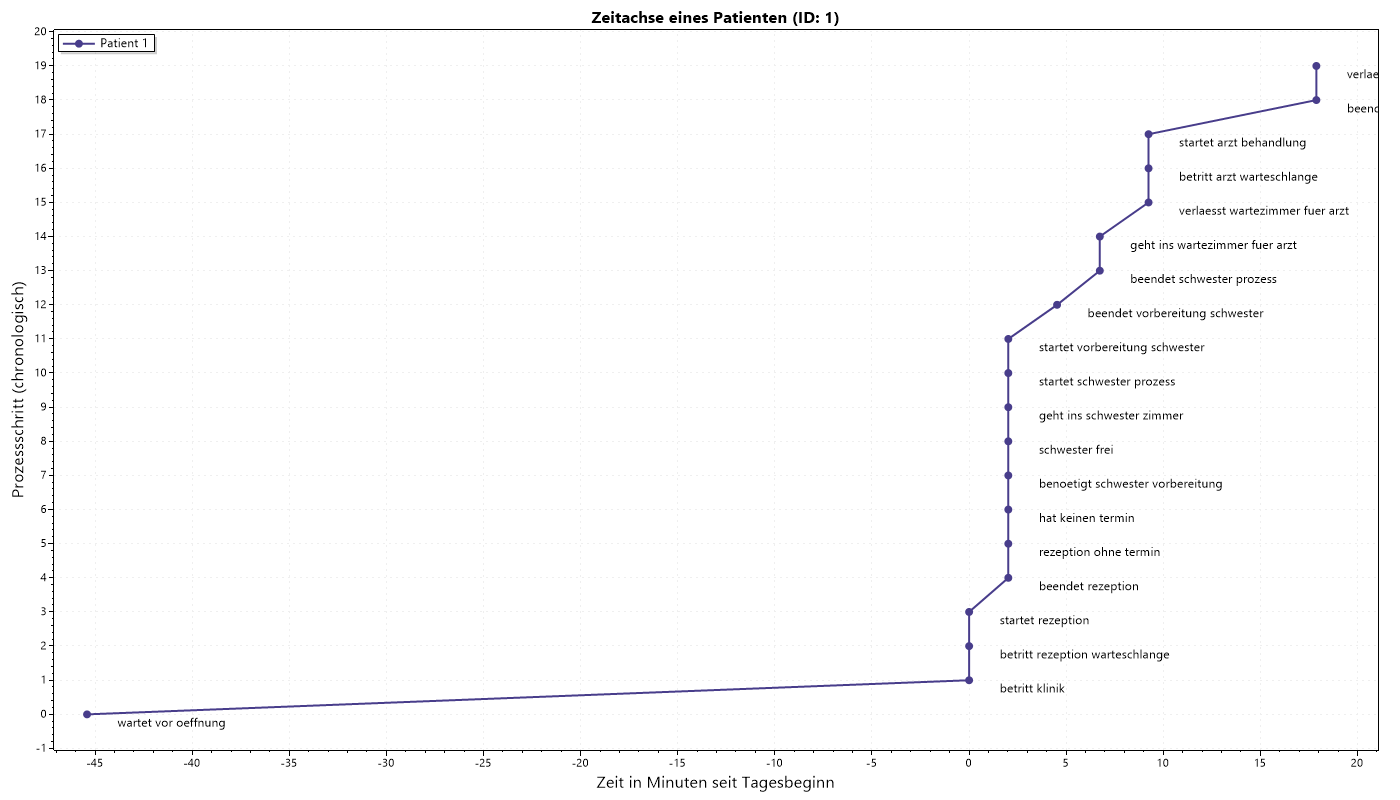
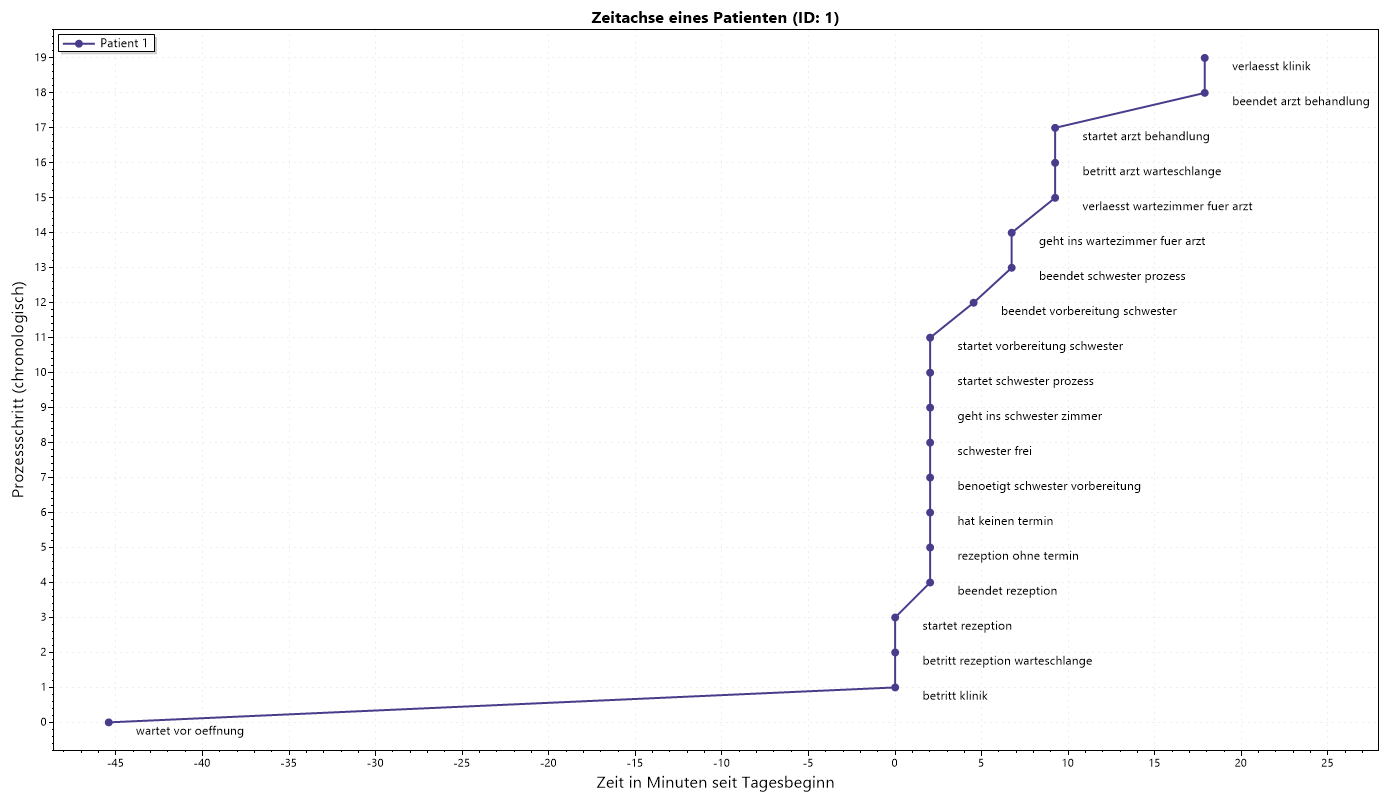
fix bild

diff --git a/simSharpSimulation/Diagramm/patienten_zeitachse.cs b/simSharpSimulation/Diagramm/patienten_zeitachse.cs
@@ -48,6 +48,7 @@ namespace simSharpSimulation
 
             double[] x = patientEvents.Select(e => e.Zeit).ToArray();
             double[] y = Enumerable.Range(0, patientEvents.Count).Select(i => (double)i).ToArray();
+            const double labelOffsetX = 1.5;
 
             var plot = new ScottPlot.Plot(1400, 800);
             var timelineScatter = plot.AddScatter(x, y, color: Color.DarkSlateBlue, lineWidth: 2, markerSize: 8, label: $"Patient {zielPatientId.Value}");
@@ -56,8 +57,30 @@ namespace simSharpSimulation
             for (int i = 0; i < patientEvents.Count; i++)
             {
                 string label = patientEvents[i].EventTyp.Replace('_', ' ');
-                plot.AddText(label, x[i] + 1.5, y[i], color: Color.Black);
+                plot.AddText(label, x[i] + labelOffsetX, y[i], color: Color.Black);
             }
+
+            double minZeit = x.Min();
+            double maxZeit = x.Max();
+            double zeitSpanne = Math.Max(maxZeit - minZeit, 1.0);
+            double linkerPuffer = Math.Max(1.0, zeitSpanne * 0.05);
+            int maxLabelLaenge = patientEvents
+                .Select(e => e.EventTyp.Replace('_', ' ').Length)
+                .DefaultIfEmpty(0)
+                .Max();
+
+            // Kompakter rechter Puffer:
+            // - genug Platz für den längsten Text
+            // - deutlich weniger Leerraum als zuvor
+            double textPuffer = 1.5 + (maxLabelLaenge * 0.22);
+            double rechterPuffer = Math.Max(4.0, Math.Min(textPuffer, 10.0));
+
+            // Explizite Achsenlimits verhindern, dass der letzte Prozess-Text rechts abgeschnitten wird.
+            plot.SetAxisLimits(
+                xMin: minZeit - linkerPuffer,
+                xMax: maxZeit + rechterPuffer + labelOffsetX,
+                yMin: -0.8,
+                yMax: patientEvents.Count - 1 + 0.8);
 
             plot.Title($"Zeitachse eines Patienten (ID: {zielPatientId.Value})");
             plot.XLabel("Zeit in Minuten seit Tagesbeginn");
